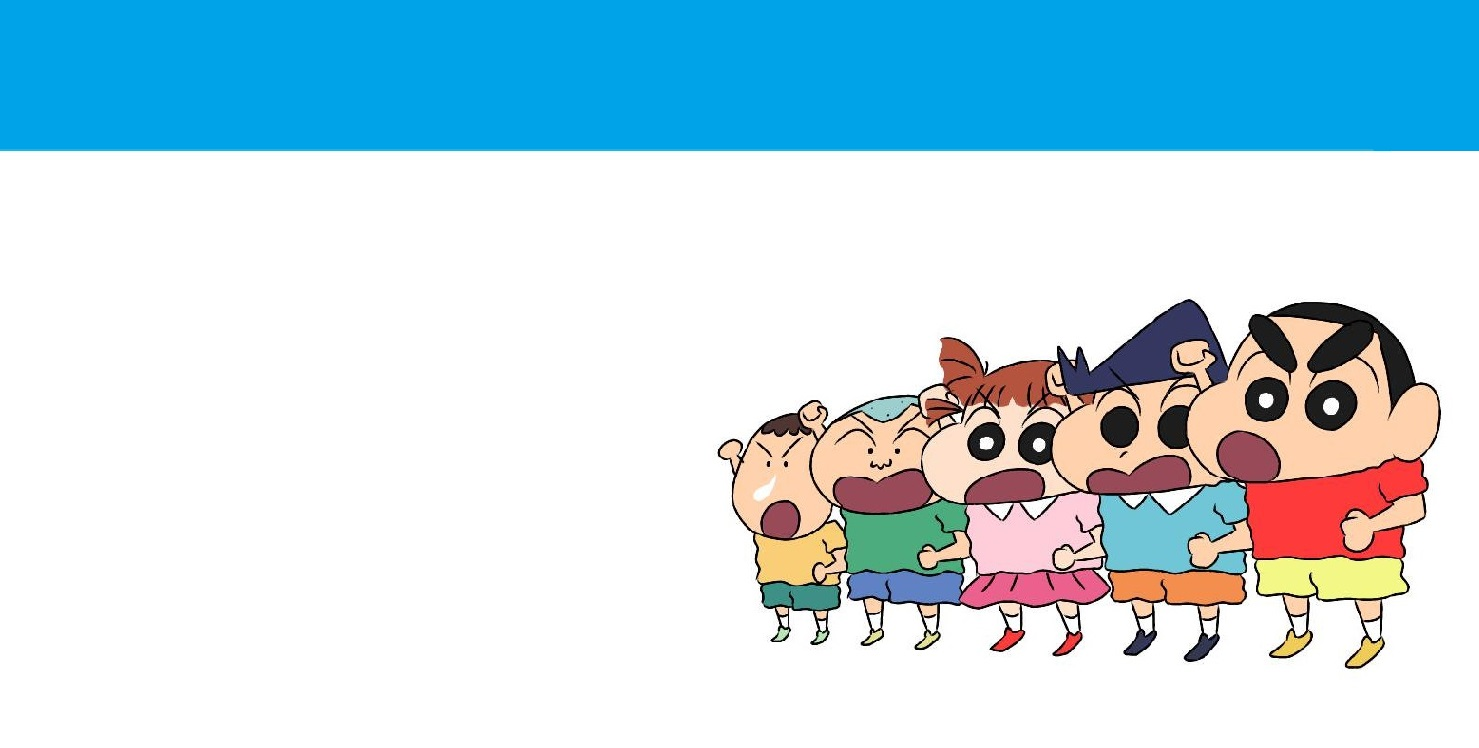
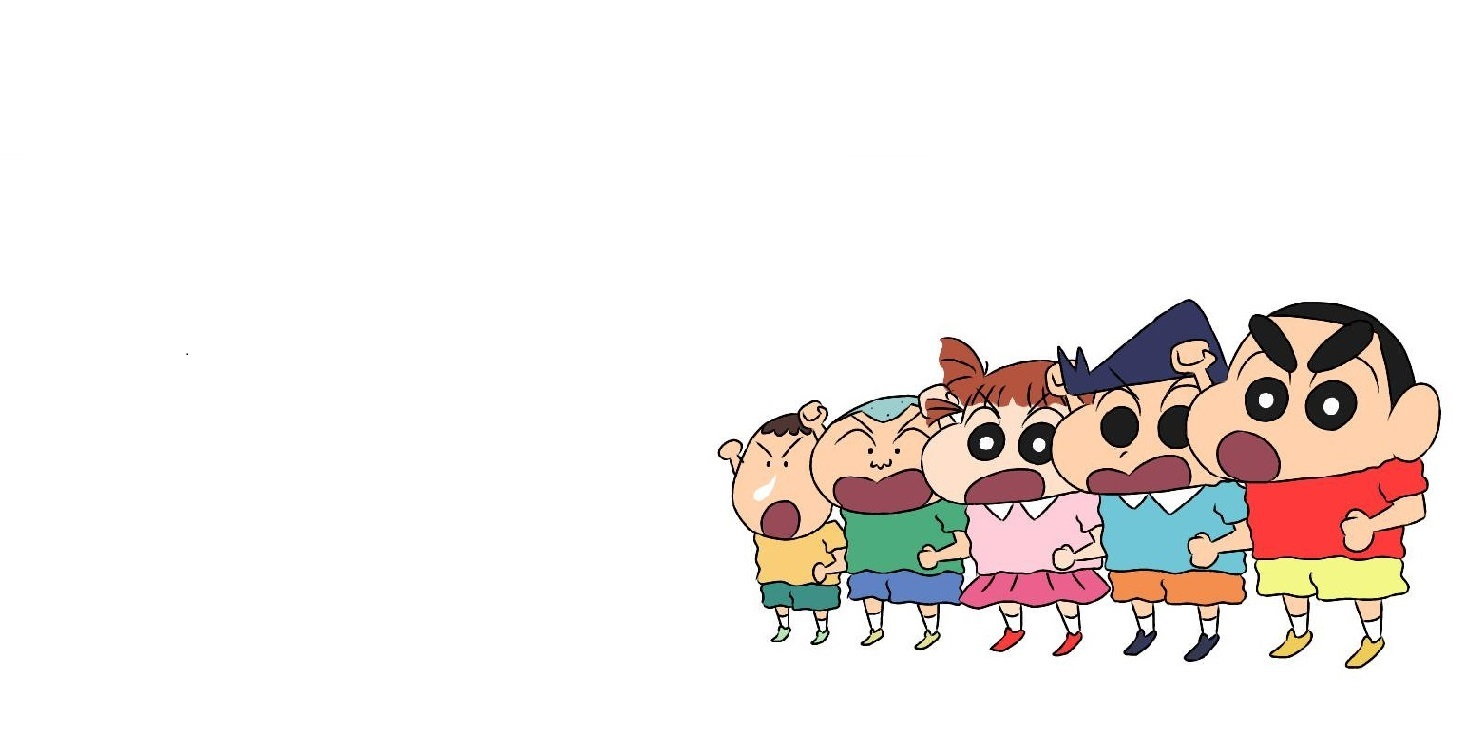
background

Changed region(s): [[0.0, 0.0, 1.0, 0.2152]]

diff --git a/member/index.html b/member/index.html
@@ -2,38 +2,31 @@
 <html lang="en">
 <head>
 <body>
-<body background="01.jpg"
- 
- >
 
-    <meta charset="utf-8">
+ <meta charset="utf-8">
 <title>小新硬起來</title> <link rel="stylesheet" type="text/css" href="./../member/background.css">
 <meta name="description" content="my group">	
  <meta name="apple-mobile-web-app-capable" content="yes">
 <meta name="keywords" content="虎尾單身霸主">	
 <meta name="author" content="40723125">
 
-   
-
-   
 
 <h1>
-幹起來 春日部防衛隊
+幹起來  春日部防衛隊
  <p><audio src="4.mp3" autoplay loop  controls></audio></p> 
 
 </h1>
 <h2>
  <p>
-   ★隊員們</p>
+ ★隊員們</p>
 <p>&nbsp;&nbsp;<a href="https://mdecp2018.github.io/site-s40723125/content/index.html">張詠全(小新)</a>&nbsp;
 <p>&nbsp;&nbsp;<a href="https://mdecp2018.github.io/site-s40723123/content/index.html">徐焌凱(Mr.mirror)</a>&nbsp;
 <p>&nbsp;&nbsp;<a href="https://mdecp2018.github.io/site-s40723110/content/index.html">李正揚(向西)</a>&nbsp;
 <p>&nbsp;&nbsp;<a href="https://mdecp2018.github.io/site-s40723134/content/index.html">(大B)</a>&nbsp;
-<p>&nbsp;&nbsp;<a href="https://mdecp2018.github.io/site-s40723111/content/index.html">李其叡(愛之味)</a>&nbsp;</p>
-<p>&nbsp;&nbsp;<a href="https://mdecp2018.github.io/site-s40723108/content/index.html">王頊鑌
-</a>&nbsp;
+<p>&nbsp;&nbsp;<a href="https://mdecp2018.github.io/site-s40723111/content/index.html">李其叡(愛之味)</a>&nbsp;
+<p>&nbsp;&nbsp;<a href="https://mdecp2018.github.io/site-s40723108/content/index.html">王頊鑌</a>&nbsp;
 </p>
 
 </h2>
-</body>
+
 </head>

diff --git a/static/cmsimply.css b/static/cmsimply.css
@@ -200,7 +200,7 @@ background-color: white;
 width: 195px;
 }
 body  {
-  background-image:url("https://wallpaper-house.com/data/out/12/wallpaper2you_512047.jpg");
+ background-image:url("https://wallpaper-house.com/data/out/12/wallpaper2you_512047.jpg");
      background-size: 100%,100%,100%,100%;
   background-position: top 0px right 0px , top 470px right 1272px, top 10px right -120px;
   background-repeat:repeat,no-repeat,no-repeat,no-repeat;

diff --git a/member/background.css b/member/background.css
@@ -1,8 +1,12 @@
-  body  {
+h1{background:  #00ff00; padding:20px;}
+
+ 
+ body {
     background-image:url("01.jpg");
-  background-size: 100%,100%,100%,100%;
+    background-size: 100%,100%,100%,100%;
   background-position: top 0px right 0px , top 470px right 1272px, top 10px right -120px;
   background-repeat:repeat,no-repeat,no-repeat,no-repeat;
   background-attachment: fixed;
   margin-bottom: 120px;
   }
+  
